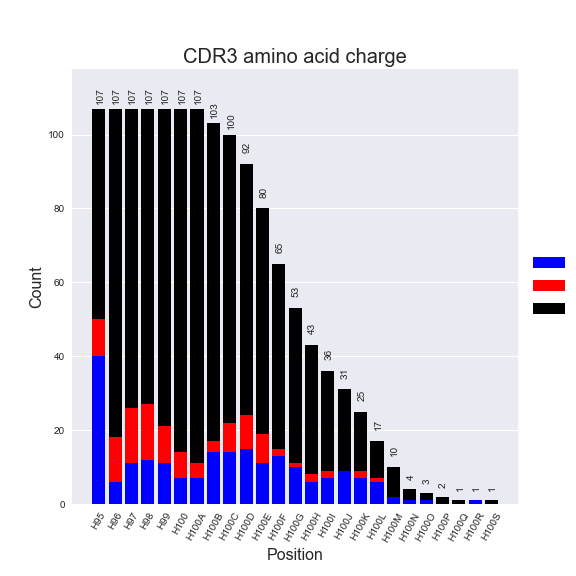
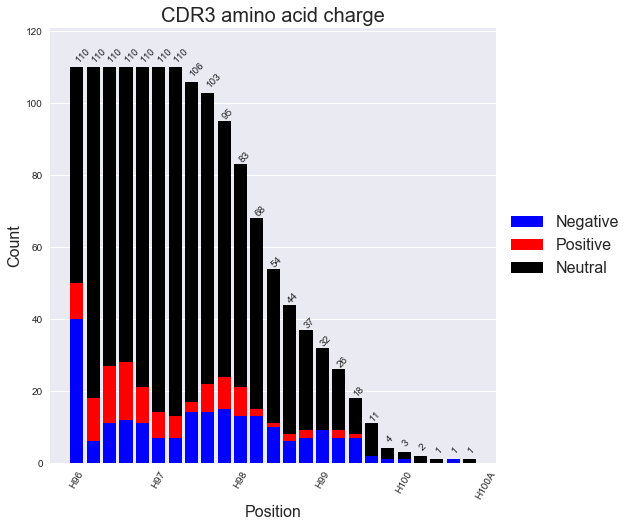
fixed legend when saving figure

diff --git a/abpytools/analysis/amino_acid_freq.py b/abpytools/analysis/amino_acid_freq.py
@@ -66,7 +66,6 @@ class AminoAcidFreq:
         self._aa_hyd_count = np.zeros((3, len(max(self._sequences, key=len))))
         self._aa_chg_count = np.zeros((3, len(max(self._sequences, key=len))))
 
-
     def _amino_acid_freq(self, normalize):
 
         # if the sum of self._aa_count is zero then the count has not been performed at this point
@@ -126,32 +125,33 @@ class AminoAcidFreq:
         # since they will always be plotted independently
         aa, chg, hyd = self._amino_acid_freq(normalize=normalize)
 
-        plt.figure(figsize=(8, 8))
+        fig = plt.figure(1, figsize=(8, 8))
+        ax = fig.add_subplot(111)
         for position in range(self._aa_freq.shape[1]):
             previous = 0
             color = iter(plt.get_cmap('Vega20').colors)
 
             if sort_by == 'name':
-                plt.title(self.region + ' amino acids', size=20)
+                ax.set_title(self.region + ' amino acids', size=20)
                 for i, amino_acid in enumerate(sorted(amino_acid_index.keys())):
                     c = next(color)
-                    plt.bar(position, aa[amino_acid_index[amino_acid], position], bottom=previous,
+                    ax.bar(position, aa[amino_acid_index[amino_acid], position], bottom=previous,
                             label=amino_acid, color=c)
                     previous += aa[amino_acid_index[amino_acid], position]
 
             elif sort_by == 'hydropathy':
-                plt.title(self.region + ' amino acid hydropathy', size=20)
+                ax.set_title(self.region + ' amino acid hydropathy', size=20)
                 for i, prop_i in enumerate(['Hydrophilic', 'Moderate', 'Hydrophobic']):
                     c = next(color)
-                    plt.bar(position, hyd[i, position], bottom=previous, label=prop_i, color=c)
+                    ax.bar(position, hyd[i, position], bottom=previous, label=prop_i, color=c)
                     previous += hyd[i, position]
 
             else:
                 color = ['b', 'r', 'k']
-                plt.title(self.region + ' amino acid charge', size=20)
+                ax.set_title(self.region + ' amino acid charge', size=20)
                 for i, prop_i in enumerate(['Negative', 'Positive', 'Neutral']):
                     c = color[i]
-                    plt.bar(position, chg[i, position], bottom=previous, label=prop_i, color=c)
+                    ax.bar(position, chg[i, position], bottom=previous, label=prop_i, color=c)
                     previous += chg[i, position]
 
         if display_count:
@@ -166,11 +166,11 @@ class AminoAcidFreq:
 
                 for position in range(aa.shape[1]):
                     if self._aa_count[:, position].sum() > 9:
-                        plt.text(x=position-0.25, y=aa[:, position].sum()+shift,
-                                 s=str(int(self._aa_count[:, position].sum())))
+                        ax.text(x=position-0.25, y=aa[:, position].sum()+2*shift,
+                                s=str(int(self._aa_count[:, position].sum())), rotation=45)
                     else:
-                        plt.text(x=position-0.1, y=aa[:, position].sum()+shift,
-                                 s=str(int(self._aa_count[:, position].sum())))
+                        ax.text(x=position-0.1, y=aa[:, position].sum()+shift,
+                                s=str(int(self._aa_count[:, position].sum())), rotation=45)
 
             else:
 
@@ -180,42 +180,40 @@ class AminoAcidFreq:
                     shift = 0.02
 
                 for position in range(aa.shape[1]):
-                    if self._aa_count[:, position].sum() < 9:
-                        plt.text(x=position-0.2, y=aa[:, position].sum() + shift, rotation=90,
-                                 s=str(int(self._aa_count[:, position].sum())))
-                    elif self._aa_count[:, position].sum() > 9:
-                        plt.text(x=position-0.2, y=aa[:, position].sum() + 2 * shift, rotation=90,
-                                 s=str(int(self._aa_count[:, position].sum())))
-                    elif self._aa_count[:, position].sum() > 99:
-                        plt.text(x=position-0.2, y=aa[:, position].sum() + 3 * shift, rotation=90,
-                                 s=str(int(self._aa_count[:, position].sum())))
+                    if self._aa_count[:, position].sum() < 99:
+                        ax.text(x=position-0.2, y=aa[:, position].sum() + shift, rotation=45,
+                                s=str(int(self._aa_count[:, position].sum())))
+                    elif 99 < self._aa_count[:, position].sum() < 999:
+                        ax.text(x=position-0.2, y=aa[:, position].sum() + 2 * shift, rotation=45,
+                                s=str(int(self._aa_count[:, position].sum())))
                     else:
-                        plt.text(x=position - 0.2, y=aa[:, position].sum() + 4 * shift, rotation=90,
-                                 s=str(int(self._aa_count[:, position].sum())))
+                        ax.text(x=position-0.2, y=aa[:, position].sum() + 4 * shift, rotation=45,
+                                s=str(int(self._aa_count[:, position].sum())))
 
-        plt.xticks(np.arange(aa.shape[1]), self._numbering, rotation=60)
+        ax.set_xticklabels(self._numbering, rotation=60)
         # plt.margins(x=0.05, y=0.1)
-        plt.xlabel('Position', size=16)
-        plt.ylim([0, aa.sum(0).max()*1.1])
-        plt.grid(axis='x')
+        ax.set_xlabel('Position', size=16)
+        ax.set_ylim([0, aa.sum(0).max()*1.1])
+        ax.grid(axis='x')
         if normalize:
-            plt.ylabel('Frequency', size=16)
+            ax.set_ylabel('Frequency', size=16)
         else:
-            plt.ylabel('Count', size=16)
+            ax.set_ylabel('Count', size=16)
 
         if sort_by == 'name':
-            plt.legend(sorted(amino_acid_index.keys()), loc='center left', bbox_to_anchor=(1, 0.5), prop={"size": 16})
+            lgd = ax.legend(sorted(amino_acid_index.keys()), loc='center left', bbox_to_anchor=(1, 0.5),
+                            prop={"size": 16})
         elif sort_by == 'hydropathy':
-            plt.legend(['Hydrophilic', 'Moderate', 'Hydrophobic'], loc='center left', bbox_to_anchor=(1, 0.5),
-                       prop={"size": 16})
+            lgd = ax.legend(['Hydrophilic', 'Moderate', 'Hydrophobic'], loc='center left', bbox_to_anchor=(1, 0.5),
+                            prop={"size": 16})
         else:
-            plt.legend(['Negative', 'Positive', 'Neutral'], loc='center left', bbox_to_anchor=(1, 0.5),
-                       prop={"size": 16})
+            lgd = ax.legend(['Negative', 'Positive', 'Neutral'], loc='center left', bbox_to_anchor=(1, 0.5),
+                            prop={"size": 16})
 
         ipython_config = PythonConfig()
         ipython_config.get_ipython_info()
         if ipython_config.backend == 'notebook' and notebook_plot:
-            plt.plot()
+            ax.plot()
         else:
-            plt.savefig(path.join(plot_path, plot_name))
-            plt.close()
+            fig.savefig(path.join(plot_path, plot_name), bbox_extra_artists=(lgd,), bbox_inches='tight')
+            plt.close(fig)
